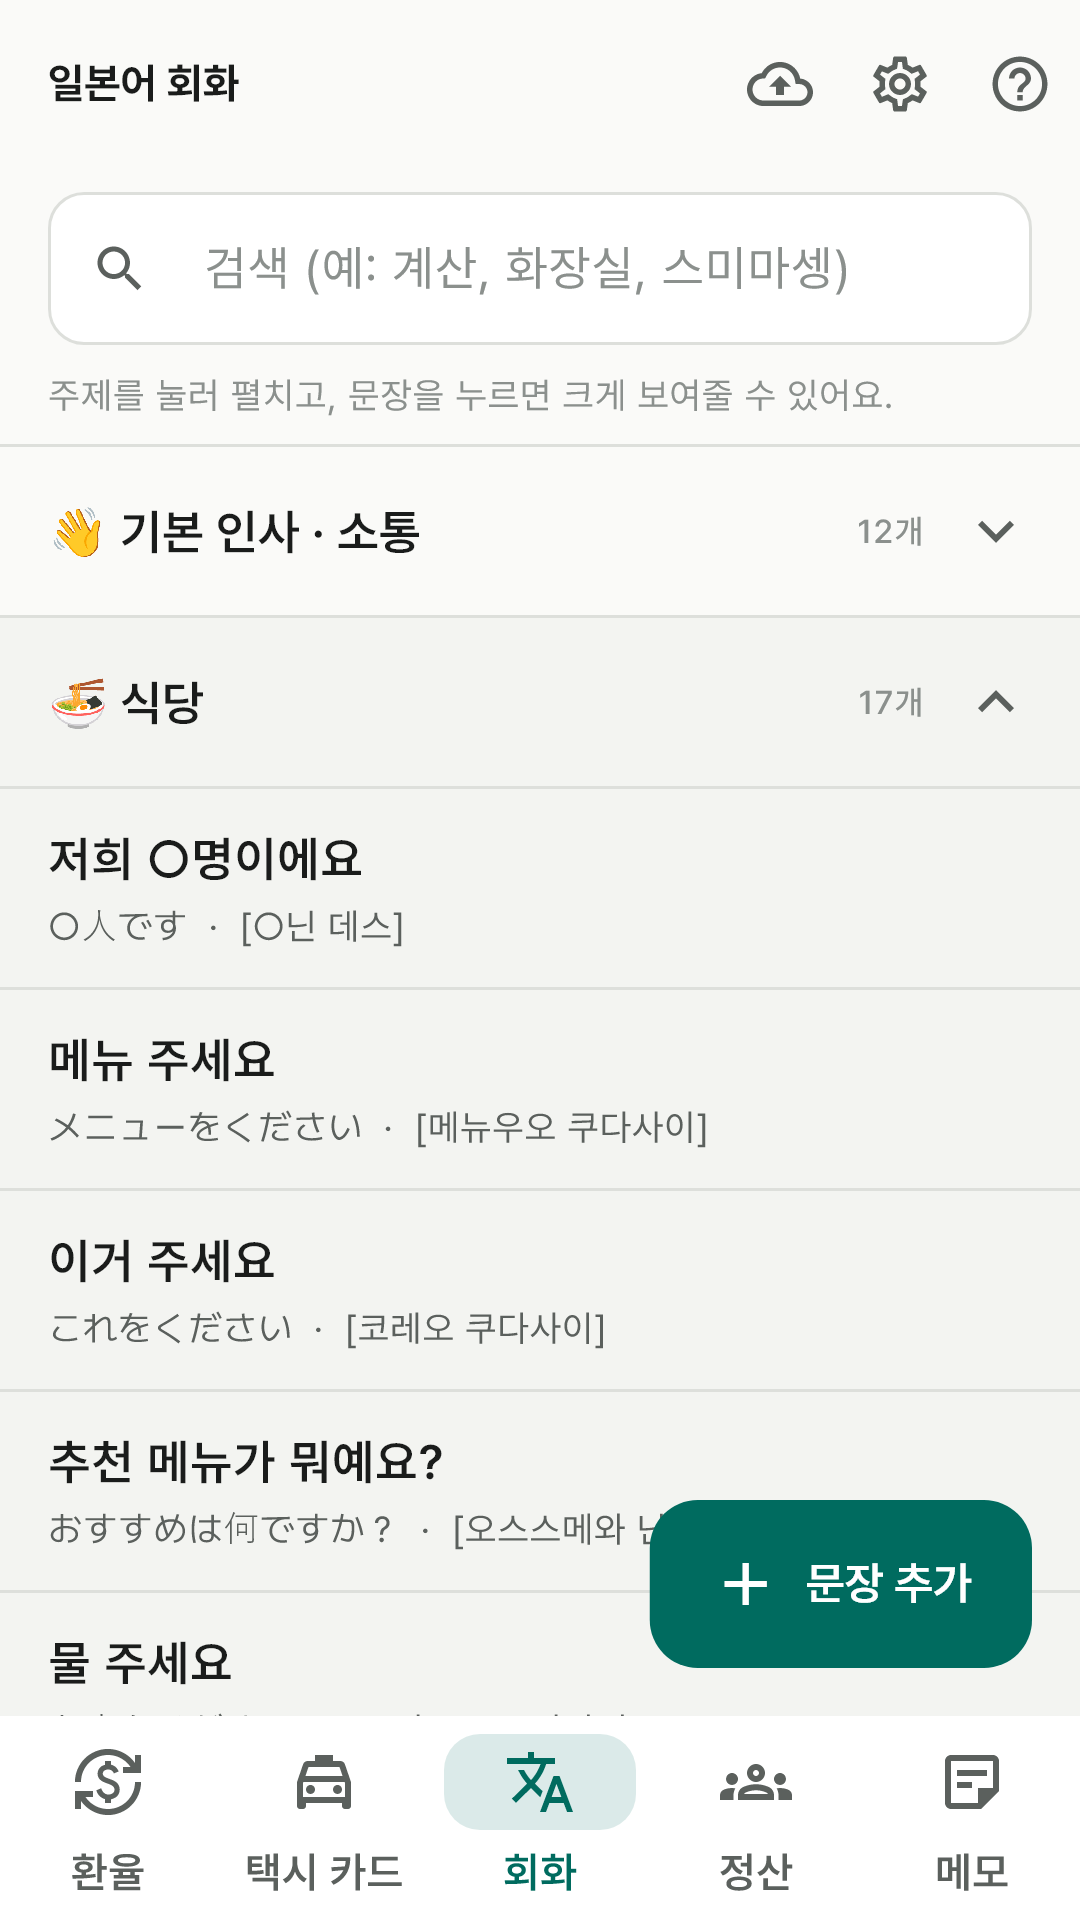
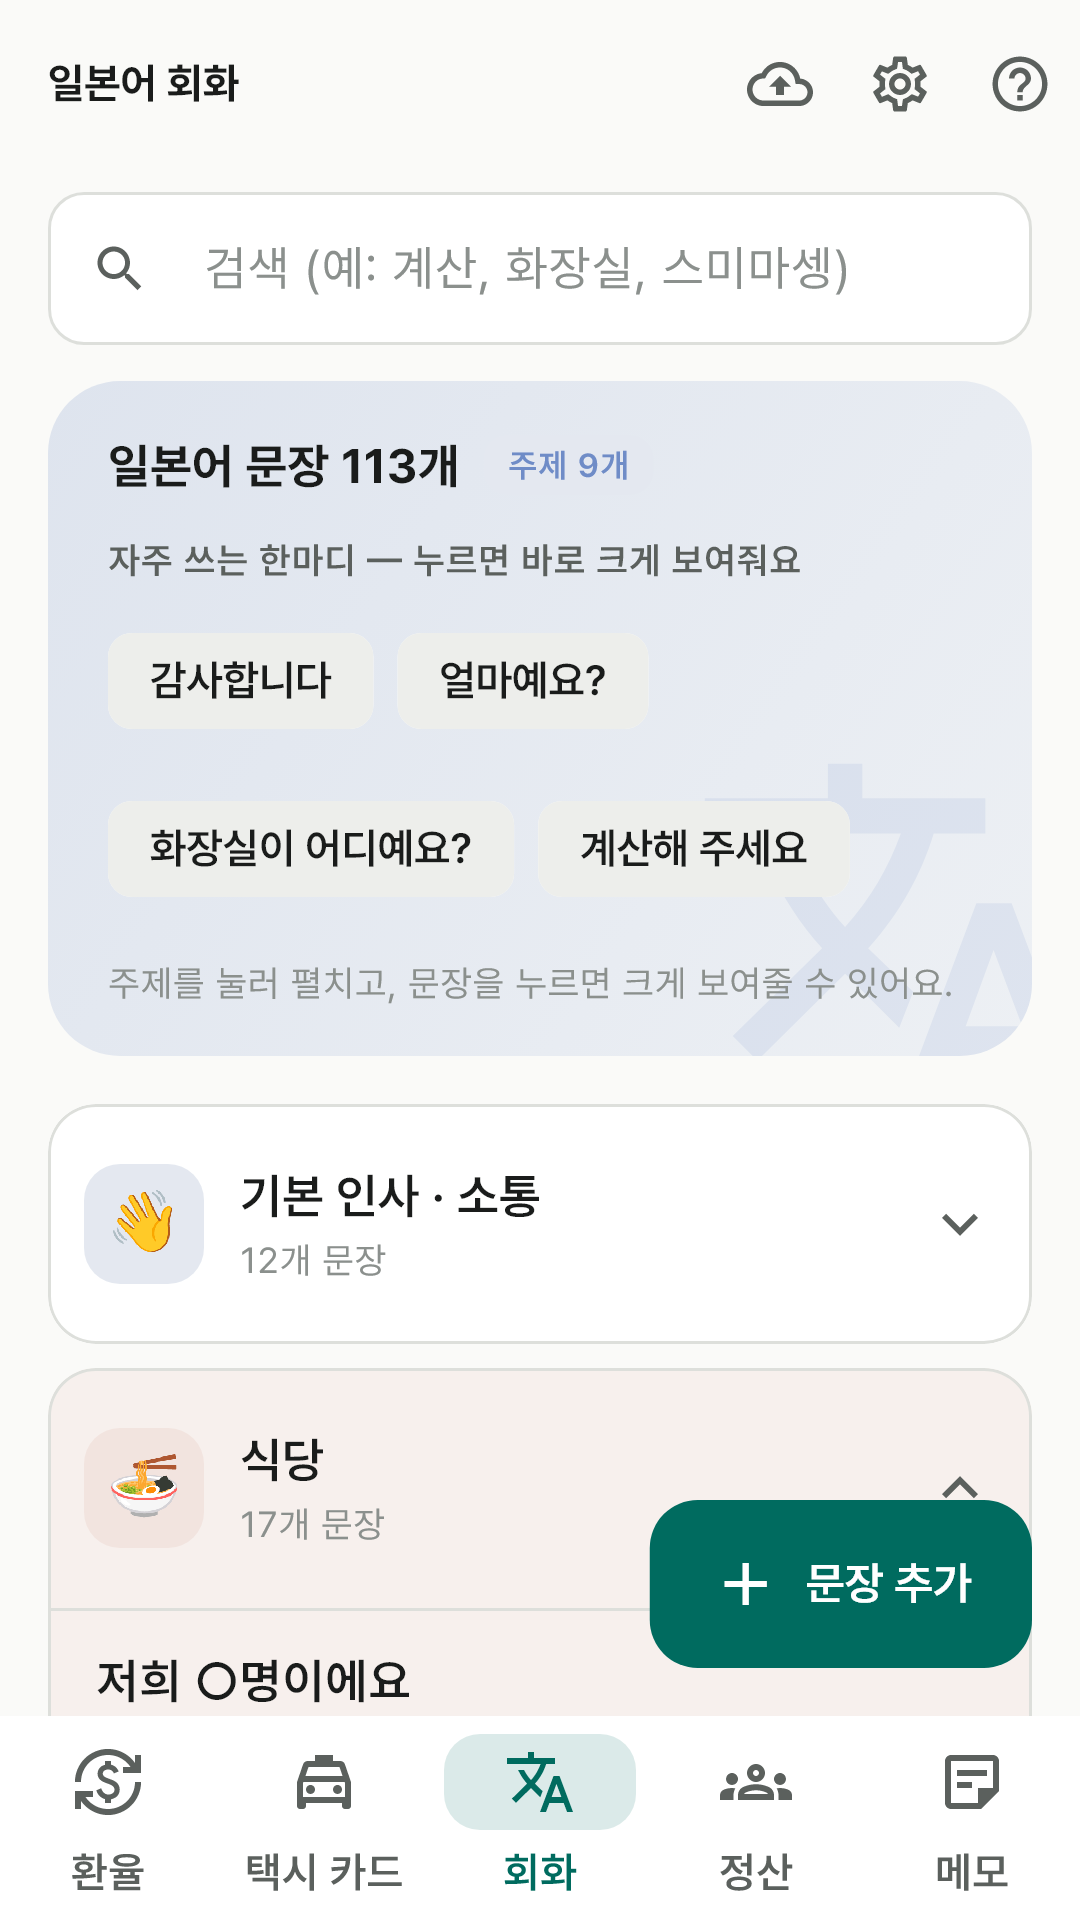
여행 앱 셋 소개 페이지: 개편한 화면 스크린샷과 문구 반영
- japan_mate·taiwan_mate: 스크린샷 6장 교체, 기능 설명에 히어로 면·종류 색 카드·자주 쓰는 한마디 추가
- TravelMate: 스크린샷을 형제 앱과 같은 6장 구성(01~06)으로 바꾸고 옛 4장 삭제

diff --git a/taiwan_mate/index.html b/taiwan_mate/index.html
@@ -72,14 +72,17 @@
 <ul>
   <li><strong>환율 계산</strong> — 대만달러·원·달러 어느 칸에 넣어도 나머지가 바로 계산됩니다.
     천 단위 콤마와 "= 5만 대만달러" 한글 자릿수 안내로 0을 잘못 세는 실수를 막아줍니다.
-    한국·대만 시각도 나란히 보여줍니다(대만이 1시간 느려요).</li>
+    맨 위 색 면에 한국·대만 시각도 나란히 보여줍니다(대만이 1시간 느려요).</li>
   <li><strong>택시 카드</strong> — 가려는 곳을 번체 중국어로 크게 띄워 기사님께 그대로 보여주세요.
     타이베이부터 가오슝·화롄·타이둥까지 12개 지역 209곳의 공항·기차역·야시장·관광지 주소가
-    미리 들어 있고, 직접 추가할 수도 있습니다.</li>
+    미리 들어 있고, 직접 추가할 수도 있습니다.
+    장소마다 종류 색 아이콘이 붙은 카드라 공항·역·호텔이 한눈에 갈립니다.</li>
   <li><strong>중국어 회화</strong> — 인사·식당·야시장·버블티·편의점·택시·MRT·호텔·긴급 상황 문장과
-    한글 발음. 누르면 화면 가득 크게 표시돼 말이 안 통해도 보여주면 됩니다.</li>
+    한글 발음. 누르면 화면 가득 크게 표시돼 말이 안 통해도 보여주면 됩니다.
+    "감사합니다", "얼마예요?" 같은 자주 쓰는 한마디는 맨 위 색 면의 칩으로 바로 띄웁니다.</li>
   <li><strong>그룹 정산</strong> — 함께 다니는 가족·친구별로 공동 경비를 적으면
-    누가 누구에게 얼마를 줘야 하는지 원화 기준으로 자동 계산합니다.</li>
+    누가 누구에게 얼마를 줘야 하는지 원화 기준으로 자동 계산합니다.
+    맨 위 색 면에 총 지출과 "누가 → 누구에게 얼마"가 바로 보입니다.</li>
   <li><strong>여행 메모</strong> — 객실 번호, 예약 번호, 와이파이 비밀번호, 항공편을 한곳에.</li>
 </ul>
 
@@ -87,12 +90,12 @@
 <!-- 스크린샷은 store/screenshots/의 사본이다. 화면이 바뀌면 골든 테스트로 다시 만들어
      (flutter test --update-goldens tool/screenshots/store_screenshot_test.dart) 여기로 복사한다. -->
 <section class="shots">
-<figure><img src="shots/01-currency.png" alt="대만달러·원·달러가 나란히 계산된 환율 화면" loading="lazy"><figcaption>대만달러·원·달러를 한눈에.</figcaption></figure>
-<figure><img src="shots/02-taxi-list.png" alt="지역 탭과 장소 목록이 보이는 택시 카드 화면" loading="lazy"><figcaption>지역별 장소 목록.</figcaption></figure>
-<figure><img src="shots/03-taxi-fullscreen.png" alt="번체 중국어 주소가 크게 표시된 기사님용 전체 화면" loading="lazy"><figcaption>기사님께 그대로 보여주세요.</figcaption></figure>
-<figure><img src="shots/04-phrases.png" alt="상황별 중국어 문장과 한글 발음 목록" loading="lazy"><figcaption>상황별 회화와 한글 발음.</figcaption></figure>
-<figure><img src="shots/05-split.png" alt="그룹별 지출과 송금 안내가 보이는 정산 화면" loading="lazy"><figcaption>누가 누구에게 얼마를.</figcaption></figure>
-<figure><img src="shots/06-memo.png" alt="여행 준비 양식이 담긴 메모 화면" loading="lazy"><figcaption>항공·숙소·준비물 메모.</figcaption></figure>
+<figure><img src="shots/01-currency.png" alt="시계 면과 대만달러·원·달러 계산 칸이 있는 환율 화면" loading="lazy"><figcaption>시계 면 아래 대만달러·원·달러를 한눈에.</figcaption></figure>
+<figure><img src="shots/02-taxi-list.png" alt="지역 면과 종류 색 아이콘 카드가 보이는 택시 카드 화면" loading="lazy"><figcaption>지역별 장소를 종류 색 카드로.</figcaption></figure>
+<figure><img src="shots/03-taxi-fullscreen.png" alt="중국어 주소가 크게 표시된 기사님용 전체 화면" loading="lazy"><figcaption>기사님께 그대로 보여주세요.</figcaption></figure>
+<figure><img src="shots/04-phrases.png" alt="자주 쓰는 한마디 칩과 주제 카드, 펼친 중국어 문장 목록" loading="lazy"><figcaption>자주 쓰는 한마디는 바로, 나머지는 주제로.</figcaption></figure>
+<figure><img src="shots/05-split.png" alt="총 지출과 송금 안내가 든 정산 면, 그룹별 정산 카드" loading="lazy"><figcaption>누가 누구에게 얼마를.</figcaption></figure>
+<figure><img src="shots/06-memo.png" alt="고정 메모와 메모 카드가 보이는 메모 화면" loading="lazy"><figcaption>항공·숙소·준비물 메모.</figcaption></figure>
 </section>
 <p>화면에 보이는 숙소·지출·메모는 기능을 설명하기 위한 예시입니다.</p>
 

diff --git a/japan_mate/index.html b/japan_mate/index.html
@@ -71,13 +71,17 @@
 <h2>이런 걸 할 수 있어요</h2>
 <ul>
   <li><strong>환율 계산</strong> — 엔·원·달러 어느 칸에 넣어도 나머지가 바로 계산됩니다.
-    천 단위 콤마와 "= 1만 엔" 한글 자릿수 안내로 0을 잘못 세는 실수를 막아줍니다.</li>
+    천 단위 콤마와 "= 1만 엔" 한글 자릿수 안내로 0을 잘못 세는 실수를 막아줍니다.
+    맨 위 색 면에는 한국·일본 시각이 나란히 있습니다(시차 없음).</li>
   <li><strong>택시 카드</strong> — 가려는 곳을 일본어로 크게 띄워 기사님께 그대로 보여주세요.
-    삿포로부터 오키나와까지 12개 지역의 공항·역·호텔·관광지 주소가 미리 들어 있고, 직접 추가할 수도 있습니다.</li>
+    삿포로부터 오키나와까지 12개 지역의 공항·역·호텔·관광지 주소가 미리 들어 있고, 직접 추가할 수도 있습니다.
+    장소마다 종류 색 아이콘이 붙은 카드라 공항·역·호텔이 한눈에 갈립니다.</li>
   <li><strong>일본어 회화</strong> — 인사·식당·쇼핑·택시·전철·호텔·긴급 상황 문장과 한글 발음.
-    누르면 화면 가득 크게 표시돼 말이 안 통해도 보여주면 됩니다.</li>
+    누르면 화면 가득 크게 표시돼 말이 안 통해도 보여주면 됩니다.
+    "감사합니다", "얼마예요?" 같은 자주 쓰는 한마디는 맨 위 색 면의 칩으로 바로 띄웁니다.</li>
   <li><strong>그룹 정산</strong> — 함께 다니는 가족·친구별로 공동 경비를 적으면
-    누가 누구에게 얼마를 줘야 하는지 원화 기준으로 자동 계산합니다.</li>
+    누가 누구에게 얼마를 줘야 하는지 원화 기준으로 자동 계산합니다.
+    맨 위 색 면에 총 지출과 "누가 → 누구에게 얼마"가 바로 보입니다.</li>
   <li><strong>여행 메모</strong> — 객실 번호, 예약 번호, 와이파이 비밀번호, 항공편을 한곳에.</li>
 </ul>
 
@@ -85,12 +89,12 @@
 <!-- 스크린샷은 store/screenshots/의 사본이다. 화면이 바뀌면 골든 테스트로 다시 만들어
      (flutter test --update-goldens tool/screenshots/store_screenshot_test.dart) 여기로 복사한다. -->
 <section class="shots">
-<figure><img src="shots/01-currency.png" alt="엔·원·달러가 나란히 계산된 환율 화면" loading="lazy"><figcaption>엔·원·달러를 한눈에.</figcaption></figure>
-<figure><img src="shots/02-taxi-list.png" alt="지역 탭과 장소 목록이 보이는 택시 카드 화면" loading="lazy"><figcaption>지역별 장소 목록.</figcaption></figure>
+<figure><img src="shots/01-currency.png" alt="시계 면과 엔·원·달러 계산 칸이 있는 환율 화면" loading="lazy"><figcaption>시계 면 아래 엔·원·달러를 한눈에.</figcaption></figure>
+<figure><img src="shots/02-taxi-list.png" alt="지역 면과 종류 색 아이콘 카드가 보이는 택시 카드 화면" loading="lazy"><figcaption>지역별 장소를 종류 색 카드로.</figcaption></figure>
 <figure><img src="shots/03-taxi-fullscreen.png" alt="일본어 주소가 크게 표시된 기사님용 전체 화면" loading="lazy"><figcaption>기사님께 그대로 보여주세요.</figcaption></figure>
-<figure><img src="shots/04-phrases.png" alt="상황별 일본어 문장과 한글 발음 목록" loading="lazy"><figcaption>상황별 회화와 한글 발음.</figcaption></figure>
-<figure><img src="shots/05-split.png" alt="그룹별 지출과 송금 안내가 보이는 정산 화면" loading="lazy"><figcaption>누가 누구에게 얼마를.</figcaption></figure>
-<figure><img src="shots/06-memo.png" alt="여행 준비 양식이 담긴 메모 화면" loading="lazy"><figcaption>항공·숙소·준비물 메모.</figcaption></figure>
+<figure><img src="shots/04-phrases.png" alt="자주 쓰는 한마디 칩과 주제 카드, 펼친 일본어 문장 목록" loading="lazy"><figcaption>자주 쓰는 한마디는 바로, 나머지는 주제로.</figcaption></figure>
+<figure><img src="shots/05-split.png" alt="총 지출과 송금 안내가 든 정산 면, 그룹별 정산 카드" loading="lazy"><figcaption>누가 누구에게 얼마를.</figcaption></figure>
+<figure><img src="shots/06-memo.png" alt="고정 메모와 메모 카드가 보이는 메모 화면" loading="lazy"><figcaption>항공·숙소·준비물 메모.</figcaption></figure>
 </section>
 <p>화면에 보이는 숙소·지출·메모는 기능을 설명하기 위한 예시입니다.</p>
 

diff --git a/TravelMate/index.html b/TravelMate/index.html
@@ -65,23 +65,32 @@
 <h2>이런 걸 할 수 있어요</h2>
 <ul>
   <li><strong>환율 계산</strong> — 달러·동·원 어느 칸에 넣어도 나머지가 바로 계산됩니다.
-    천 단위 콤마와 "= 10만 동" 한글 자릿수 안내로 0을 잘못 세는 실수를 막아줍니다.</li>
+    천 단위 콤마와 "= 10만 동" 한글 자릿수 안내로 0을 잘못 세는 실수를 막아줍니다.
+    맨 위 색 면에는 한국·베트남 시각이 나란히 있습니다(베트남이 2시간 느려요).</li>
   <li><strong>택시 카드</strong> — 가려는 곳을 베트남어로 크게 띄워 기사님께 그대로 보여주세요.
-    하노이부터 푸꾸옥까지 주요 공항·호텔·관광지 주소가 지역별로 미리 들어 있고, 직접 추가할 수도 있습니다.</li>
+    하노이부터 푸꾸옥까지 주요 공항·호텔·관광지 주소가 지역별로 미리 들어 있고, 직접 추가할 수도 있습니다.
+    장소마다 종류 색 아이콘이 붙은 카드라 공항·역·호텔이 한눈에 갈립니다.</li>
   <li><strong>베트남어 회화</strong> — 인사·식당·쇼핑·택시·호텔·긴급 상황 문장과 한글 발음.
-    누르면 화면 가득 크게 표시돼 말이 안 통해도 보여주면 됩니다.</li>
+    누르면 화면 가득 크게 표시돼 말이 안 통해도 보여주면 됩니다.
+    "감사합니다", "얼마예요?" 같은 자주 쓰는 한마디는 맨 위 색 면의 칩으로 바로 띄웁니다.</li>
   <li><strong>그룹 정산</strong> — 함께 다니는 가족·친구별로 공동 경비를 적으면
-    누가 누구에게 얼마를 줘야 하는지 원화 기준으로 자동 계산합니다.</li>
+    누가 누구에게 얼마를 줘야 하는지 원화 기준으로 자동 계산합니다.
+    맨 위 색 면에 총 지출과 "누가 → 누구에게 얼마"가 바로 보입니다.</li>
   <li><strong>여행 메모</strong> — 객실 번호, 예약 번호, 와이파이 비밀번호, 항공편을 한곳에.</li>
 </ul>
 
-<h2>화면</h2>
-<div class="shots">
-  <figure><img src="./shots/currency.png" alt="환율 계산기 화면" loading="lazy"><figcaption>환율 계산</figcaption></figure>
-  <figure><img src="./shots/taxi.png" alt="기사님께 보여주는 택시 카드 전체 화면" loading="lazy"><figcaption>택시 카드</figcaption></figure>
-  <figure><img src="./shots/phrases.png" alt="베트남어 회화 목록 화면" loading="lazy"><figcaption>베트남어 회화</figcaption></figure>
-  <figure><img src="./shots/split.png" alt="여행 정산 요약 화면" loading="lazy"><figcaption>여행 정산</figcaption></figure>
-</div>
+<h2>앱 안에서는 이렇게 보여요</h2>
+<!-- 스크린샷은 store/screenshots/의 사본이다. 화면이 바뀌면 골든 테스트로 다시 만들어
+     (flutter test --update-goldens tool/screenshots/store_screenshot_test.dart) docs/shots/에 복사한다. -->
+<section class="shots">
+<figure><img src="shots/01-currency.png" alt="시계 면과 동·원·달러 계산 칸이 있는 환율 화면" loading="lazy"><figcaption>시계 면 아래 동·원·달러를 한눈에.</figcaption></figure>
+<figure><img src="shots/02-taxi-list.png" alt="지역 면과 종류 색 아이콘 카드가 보이는 택시 카드 화면" loading="lazy"><figcaption>지역별 장소를 종류 색 카드로.</figcaption></figure>
+<figure><img src="shots/03-taxi-fullscreen.png" alt="베트남어 주소가 크게 표시된 기사님용 전체 화면" loading="lazy"><figcaption>기사님께 그대로 보여주세요.</figcaption></figure>
+<figure><img src="shots/04-phrases.png" alt="자주 쓰는 한마디 칩과 주제 카드, 펼친 베트남어 문장 목록" loading="lazy"><figcaption>자주 쓰는 한마디는 바로, 나머지는 주제로.</figcaption></figure>
+<figure><img src="shots/05-split.png" alt="총 지출과 송금 안내가 든 정산 면, 그룹별 정산 카드" loading="lazy"><figcaption>누가 누구에게 얼마를.</figcaption></figure>
+<figure><img src="shots/06-memo.png" alt="고정 메모와 메모 카드가 보이는 메모 화면" loading="lazy"><figcaption>항공·숙소·준비물 메모.</figcaption></figure>
+</section>
+<p>화면에 보이는 숙소·지출·메모는 기능을 설명하기 위한 예시입니다.</p>
 
 <h2>개인정보</h2>
 <p>
